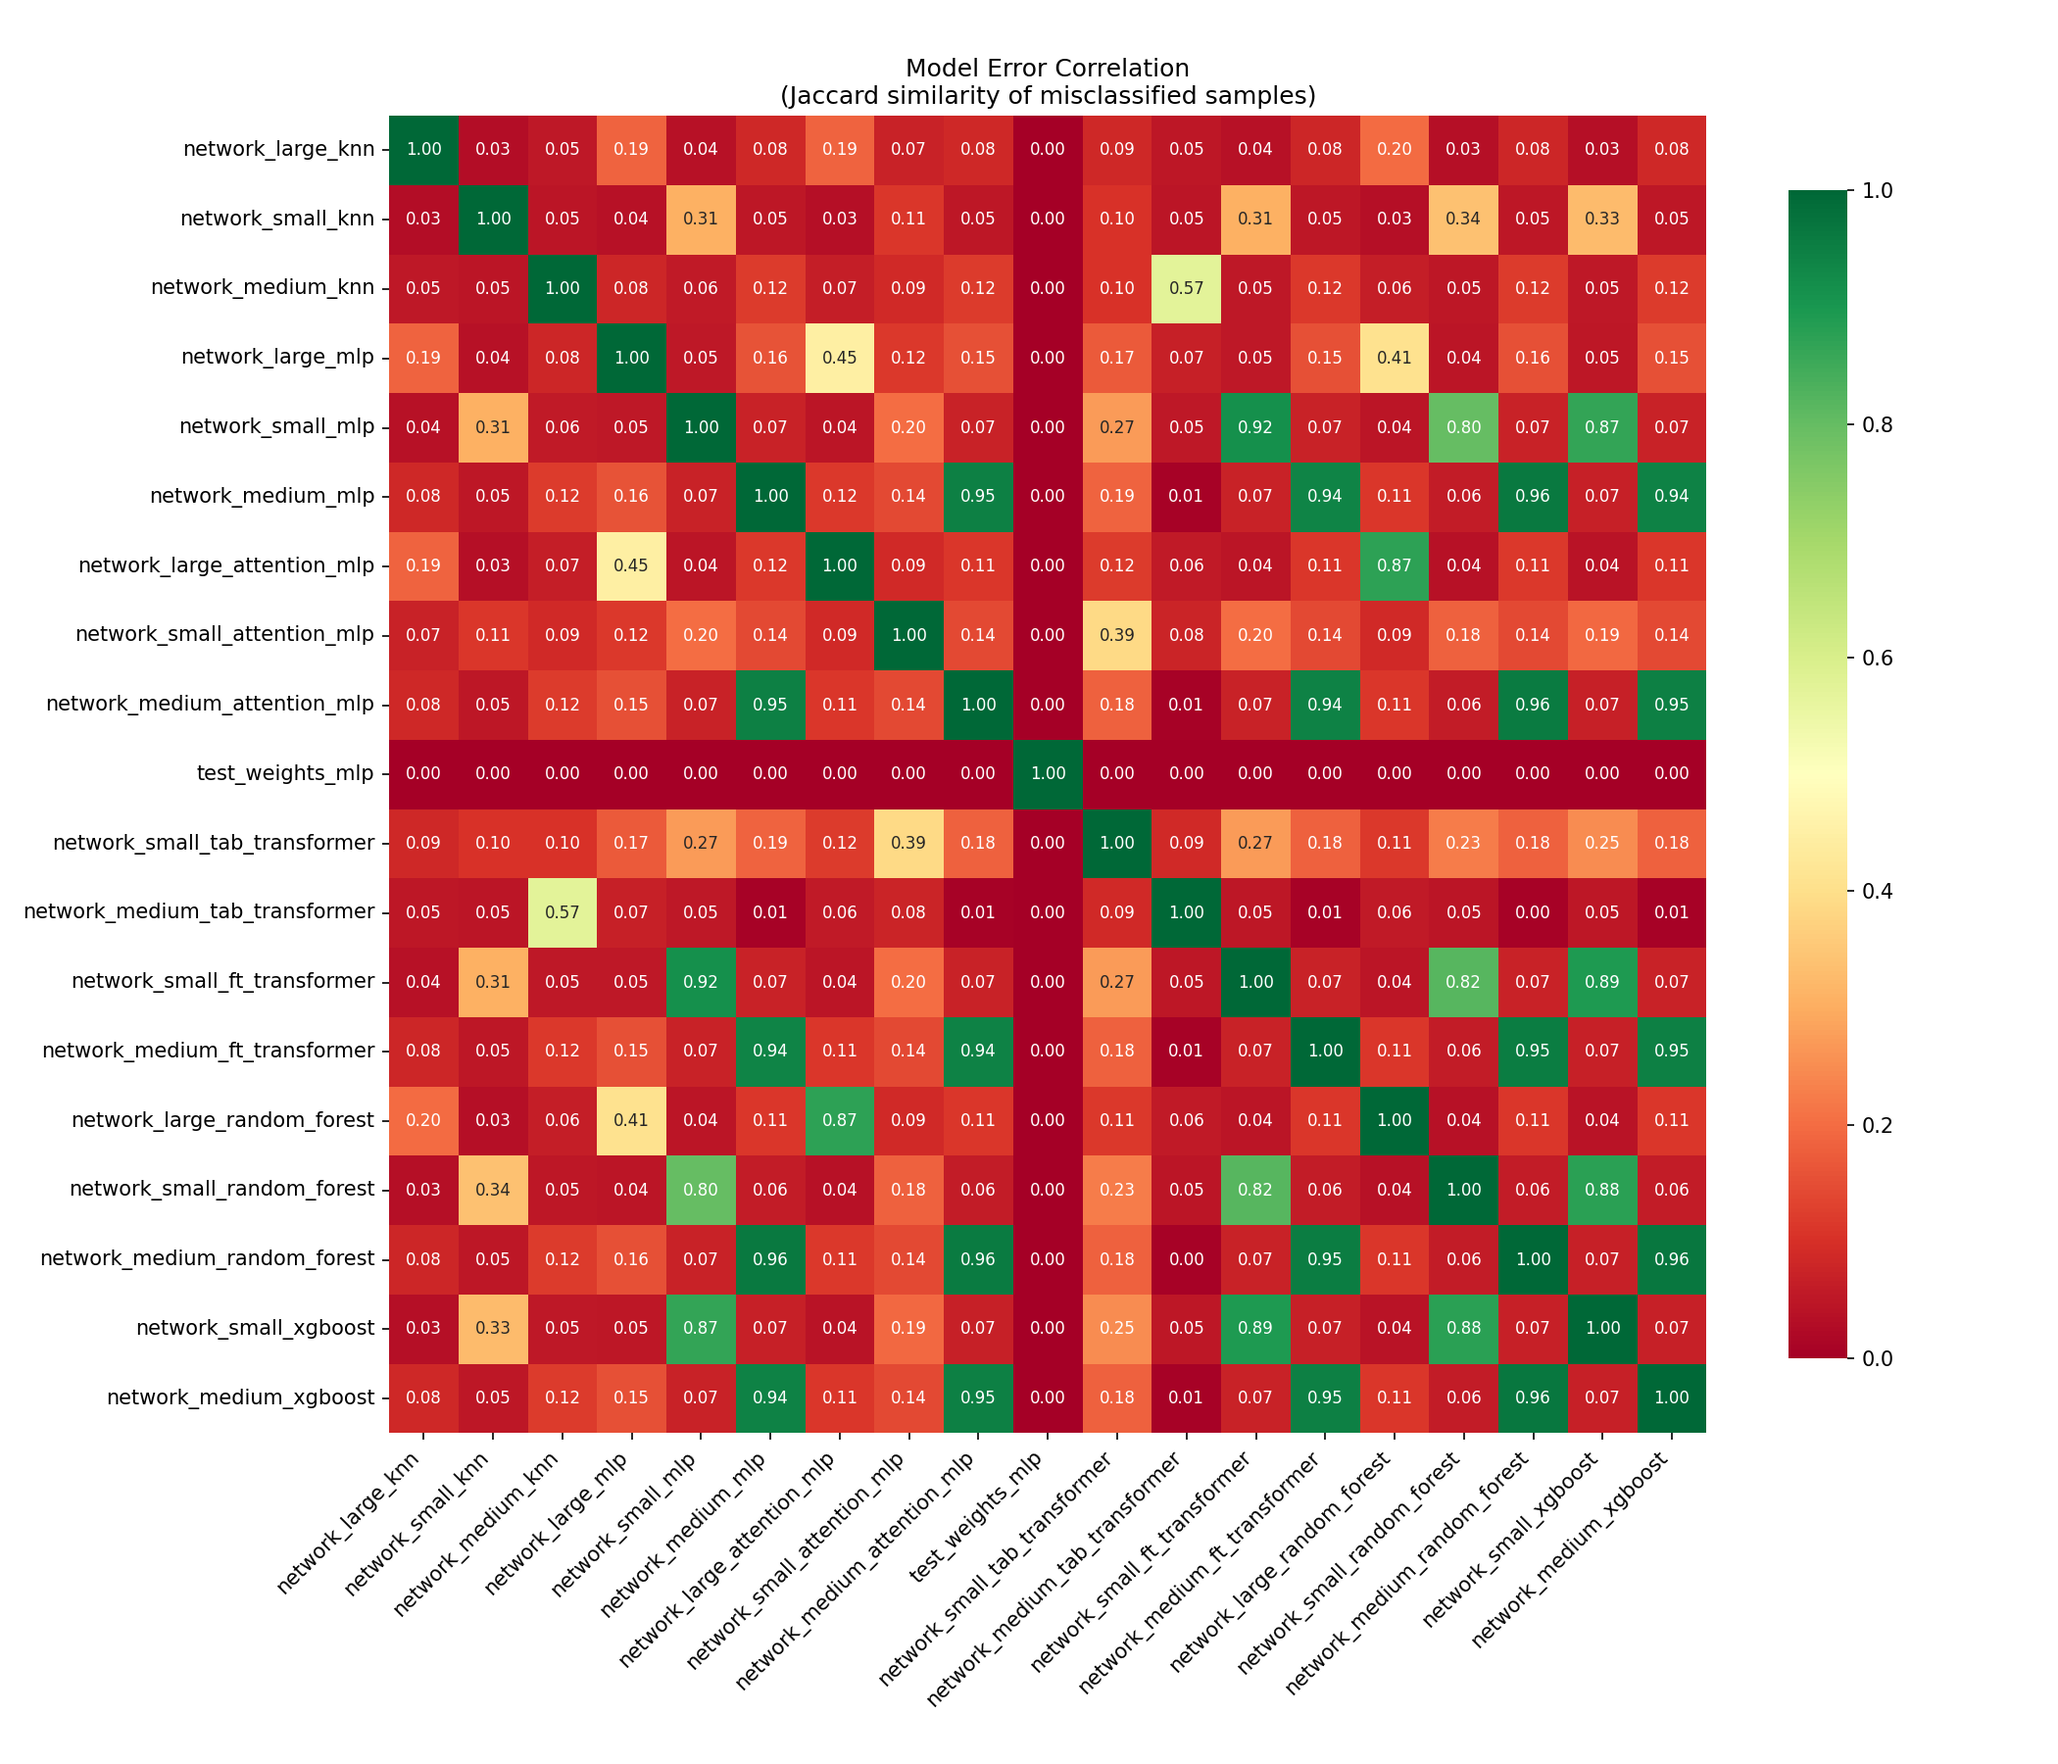
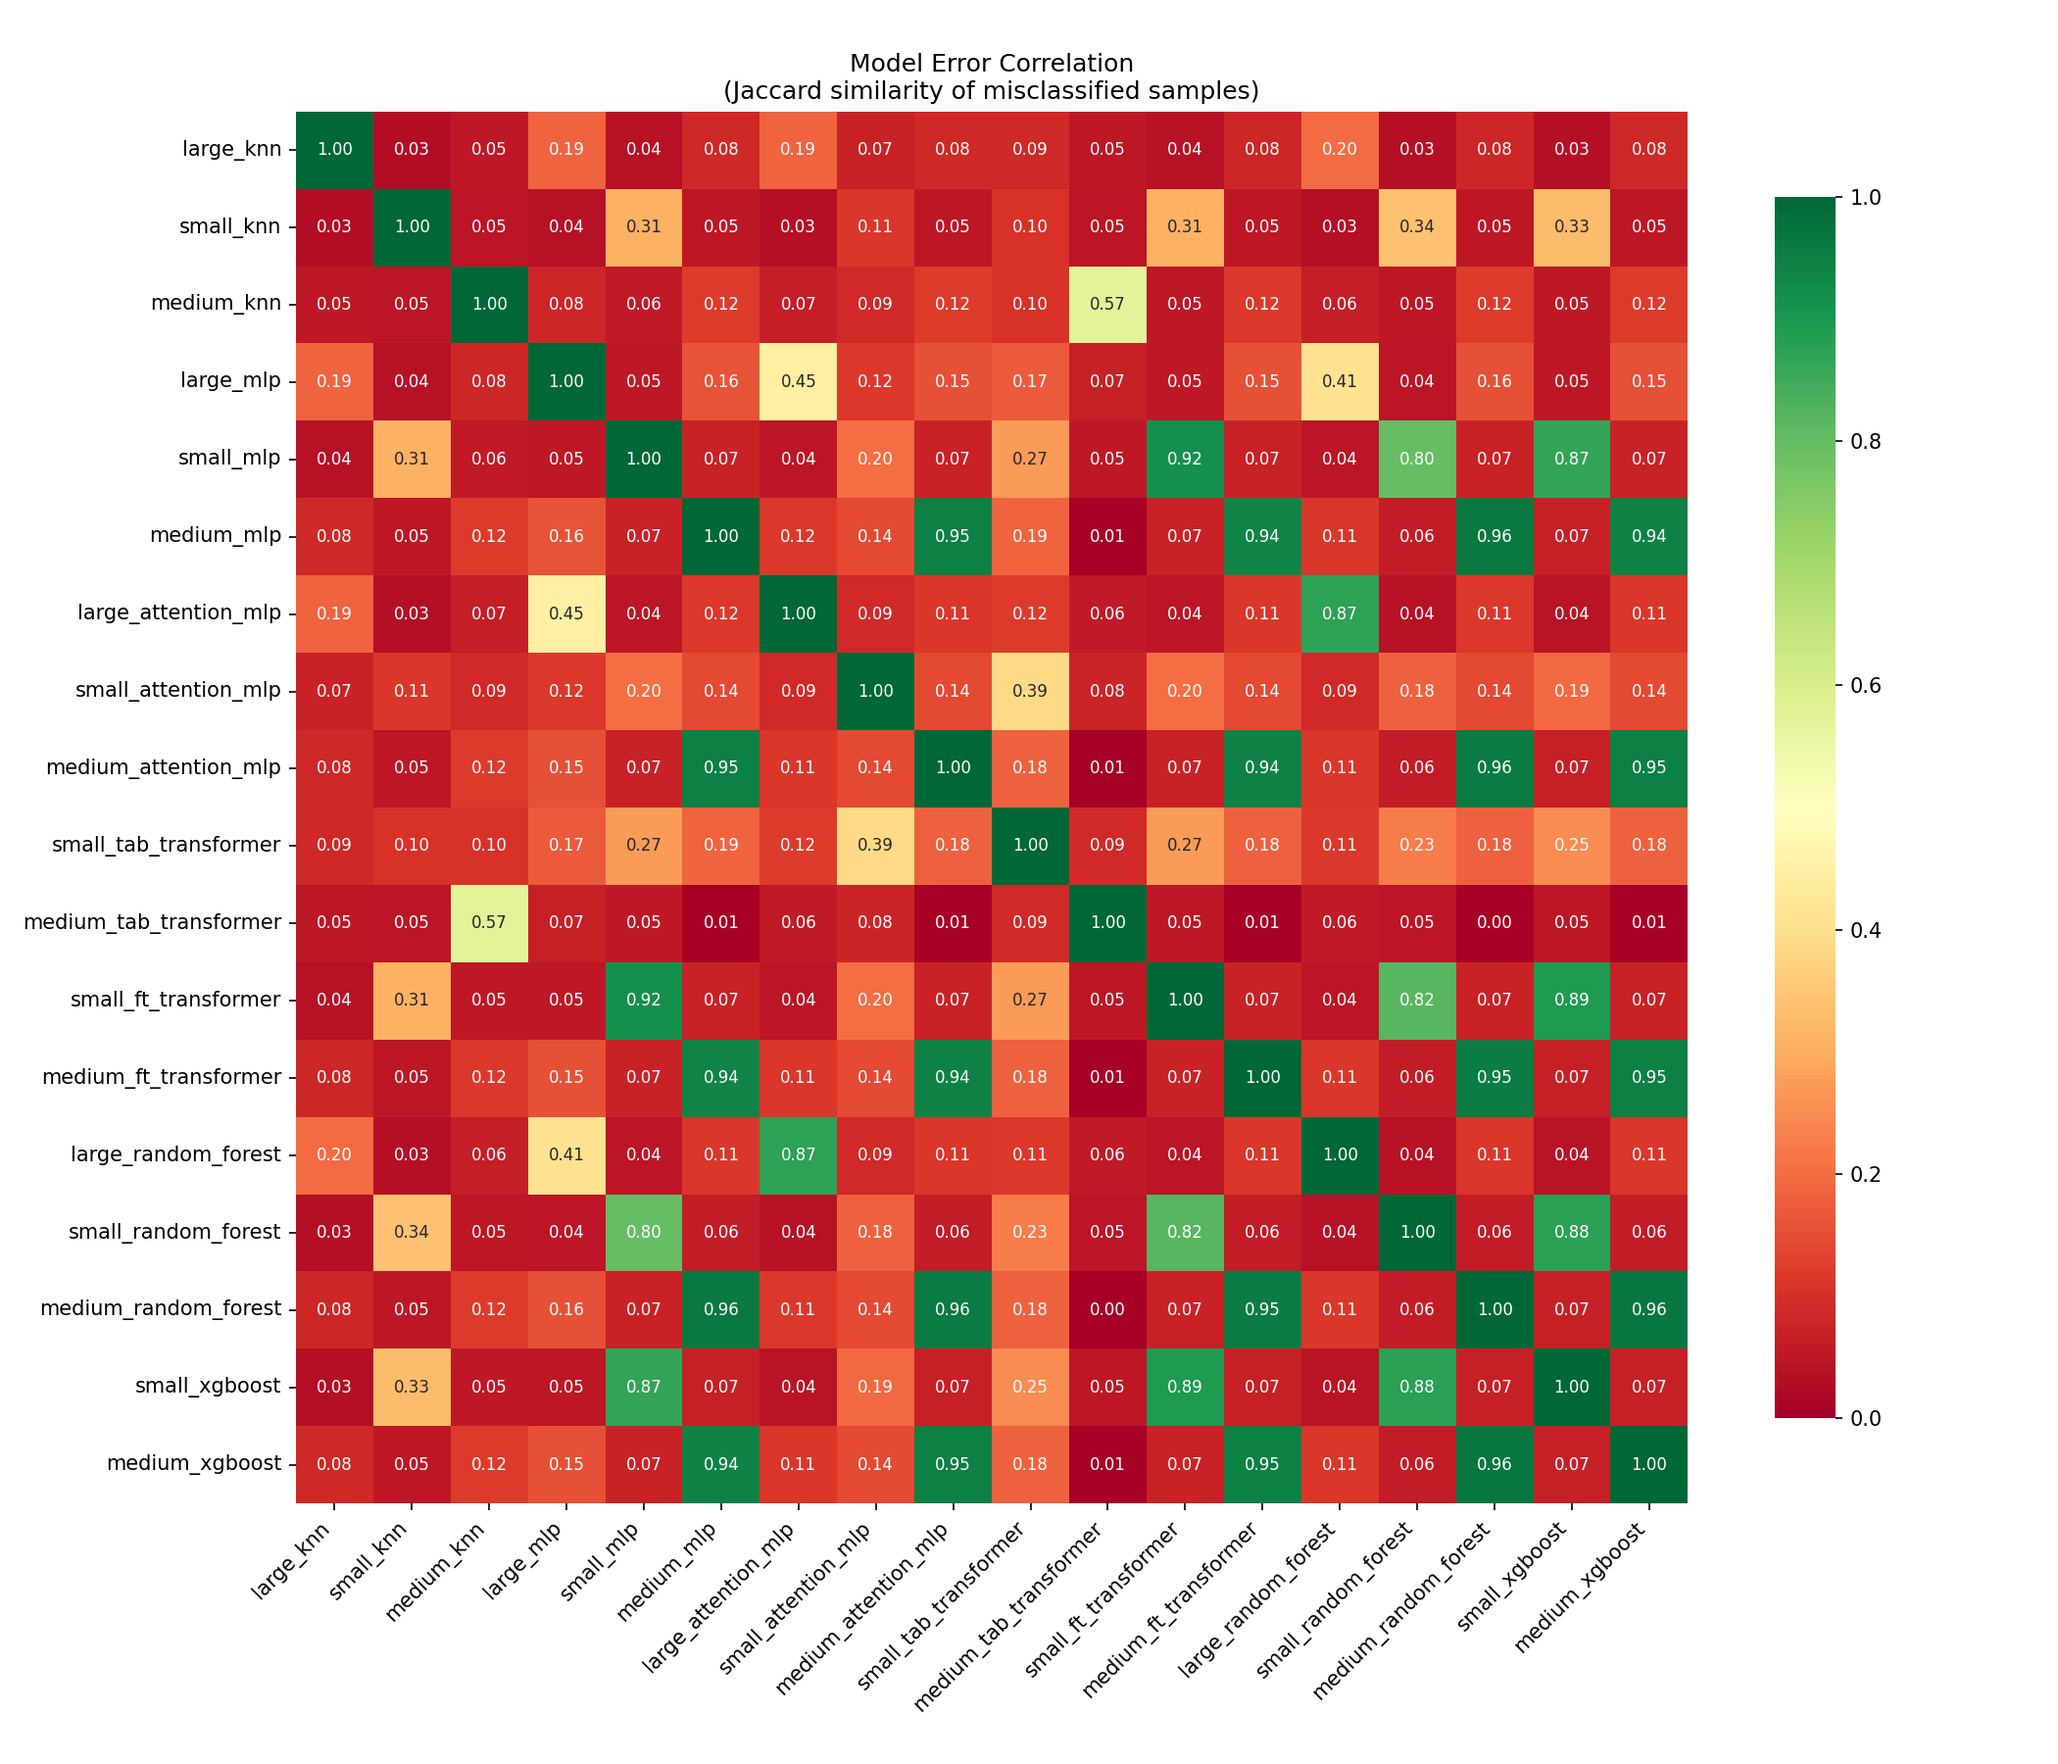
Nathan: Update Results analysis

diff --git a/results_analysis/network/report.md b/results_analysis/network/report.md
@@ -1,6 +1,6 @@
 # Analysis Report: Network Dataset
 
-Generated: 2026-01-21 07:28:27
+Generated: 2026-01-21 07:57:32
 
 ---
 
@@ -10,27 +10,26 @@ Ranked by F1 (macro) score on test set.
 
 | Rank | Experiment Name | Accuracy | F1 (macro) | Balanced Acc | MCC | Time (s) |
 |------|---|---|---|---|---|---|
-| 1 | `2026-01-20_23-18-21_test_weights_mlp` | 1.0000 | 1.0000 | 1.0000 | 0.0000 | 3.5 |
-| 2 | `2026-01-14_23-14-58_network_small_random_forest` | 0.8760 | 0.8688 | 0.9592 | 0.5627 | 43.0 |
-| 3 | `2026-01-15_00-55-56_network_small_knn` | 0.8990 | 0.8368 | 0.8442 | 0.3495 | 5.3 |
-| 4 | `2026-01-15_00-11-13_network_small_ft_transformer` | 0.8552 | 0.7743 | 0.9598 | 0.5401 | 2673.9 |
-| 5 | `2026-01-14_23-01-53_network_small_mlp` | 0.8510 | 0.7718 | 0.9585 | 0.5333 | 745.1 |
-| 6 | `2026-01-21_06-16-44_network_large_random_forest` | 0.7854 | 0.7490 | 0.9382 | 0.6018 | 744.8 |
-| 7 | `2026-01-15_01-05-22_network_small_tab_transformer` | 0.4656 | 0.7042 | 0.8548 | 0.2300 | 2786.7 |
-| 8 | `2026-01-20_20-35-56_network_medium_xgboost` | 0.7113 | 0.6961 | 0.9279 | 0.4693 | 680.7 |
-| 9 | `2026-01-20_21-05-35_network_medium_random_forest` | 0.7058 | 0.6843 | 0.8724 | 0.4665 | 756.0 |
-| 10 | `2026-01-21_06-30-17_network_medium_random_forest` | 0.7058 | 0.6843 | 0.8724 | 0.4665 | 641.2 |
-| 11 | `2026-01-21_03-38-32_network_large_knn` | 0.8708 | 0.6672 | 0.6907 | 0.5412 | 4.3 |
-| 12 | `2026-01-14_23-39-12_network_small_xgboost` | 0.8663 | 0.6134 | 0.7095 | 0.5515 | 26.5 |
-| 13 | `2026-01-14_23-49-15_network_small_attention_mlp` | 0.6476 | 0.5953 | 0.8121 | 0.1380 | 1308.3 |
-| 14 | `2026-01-20_20-48-35_network_medium_knn` | 0.8589 | 0.5909 | 0.5706 | 0.2198 | 18.4 |
-| 15 | `2026-01-21_04-08-05_network_medium_knn` | 0.8589 | 0.5909 | 0.5706 | 0.2198 | 17.3 |
-| 16 | `2026-01-20_23-22-03_network_medium_attention_mlp` | 0.7089 | 0.5452 | 0.7450 | 0.4650 | 161.1 |
-| 17 | `2026-01-20_23-44-20_network_large_attention_mlp` | 0.7700 | 0.4577 | 0.6085 | 0.5831 | 2889.7 |
-| 18 | `2026-01-20_23-21-19_network_medium_mlp` | 0.6955 | 0.4523 | 0.7653 | 0.4563 | 24.8 |
-| 19 | `2026-01-20_23-29-47_network_medium_ft_transformer` | 0.7108 | 0.4457 | 0.6015 | 0.4658 | 385.7 |
-| 20 | `2026-01-20_23-25-00_network_medium_tab_transformer` | 0.8820 | 0.3215 | 0.3307 | 0.1420 | 268.6 |
-| 21 | `2026-01-21_04-24-57_network_large_mlp` | 0.4899 | 0.2944 | 0.4081 | 0.3221 | 2994.4 |
+| 1 | `2026-01-14_23-14-58_network_small_random_forest` | 0.8760 | 0.8688 | 0.9592 | 0.5627 | 43.0 |
+| 2 | `2026-01-15_00-55-56_network_small_knn` | 0.8990 | 0.8368 | 0.8442 | 0.3495 | 5.3 |
+| 3 | `2026-01-15_00-11-13_network_small_ft_transformer` | 0.8552 | 0.7743 | 0.9598 | 0.5401 | 2673.9 |
+| 4 | `2026-01-14_23-01-53_network_small_mlp` | 0.8510 | 0.7718 | 0.9585 | 0.5333 | 745.1 |
+| 5 | `2026-01-21_06-16-44_network_large_random_forest` | 0.7854 | 0.7490 | 0.9382 | 0.6018 | 744.8 |
+| 6 | `2026-01-15_01-05-22_network_small_tab_transformer` | 0.4656 | 0.7042 | 0.8548 | 0.2300 | 2786.7 |
+| 7 | `2026-01-20_20-35-56_network_medium_xgboost` | 0.7113 | 0.6961 | 0.9279 | 0.4693 | 680.7 |
+| 8 | `2026-01-20_21-05-35_network_medium_random_forest` | 0.7058 | 0.6843 | 0.8724 | 0.4665 | 756.0 |
+| 9 | `2026-01-21_06-30-17_network_medium_random_forest` | 0.7058 | 0.6843 | 0.8724 | 0.4665 | 641.2 |
+| 10 | `2026-01-21_03-38-32_network_large_knn` | 0.8708 | 0.6672 | 0.6907 | 0.5412 | 4.3 |
+| 11 | `2026-01-14_23-39-12_network_small_xgboost` | 0.8663 | 0.6134 | 0.7095 | 0.5515 | 26.5 |
+| 12 | `2026-01-14_23-49-15_network_small_attention_mlp` | 0.6476 | 0.5953 | 0.8121 | 0.1380 | 1308.3 |
+| 13 | `2026-01-20_20-48-35_network_medium_knn` | 0.8589 | 0.5909 | 0.5706 | 0.2198 | 18.4 |
+| 14 | `2026-01-21_04-08-05_network_medium_knn` | 0.8589 | 0.5909 | 0.5706 | 0.2198 | 17.3 |
+| 15 | `2026-01-20_23-22-03_network_medium_attention_mlp` | 0.7089 | 0.5452 | 0.7450 | 0.4650 | 161.1 |
+| 16 | `2026-01-20_23-44-20_network_large_attention_mlp` | 0.7700 | 0.4577 | 0.6085 | 0.5831 | 2889.7 |
+| 17 | `2026-01-20_23-21-19_network_medium_mlp` | 0.6955 | 0.4523 | 0.7653 | 0.4563 | 24.8 |
+| 18 | `2026-01-20_23-29-47_network_medium_ft_transformer` | 0.7108 | 0.4457 | 0.6015 | 0.4658 | 385.7 |
+| 19 | `2026-01-20_23-25-00_network_medium_tab_transformer` | 0.8820 | 0.3215 | 0.3307 | 0.1420 | 268.6 |
+| 20 | `2026-01-21_04-24-57_network_large_mlp` | 0.4899 | 0.2944 | 0.4081 | 0.3221 | 2994.4 |
 
 ---
 
@@ -44,7 +43,7 @@ Classes with highest error rates across all models.
 | anomaly | 260 | 91 | 35.00% |
 | MITM | 441731 | 148721 | 33.67% |
 | physical fault | 348180 | 88715 | 25.48% |
-| normal | 6420477 | 1568317 | 24.43% |
+| normal | 6417477 | 1568317 | 24.44% |
 | DoS | 142298 | 1555 | 1.09% |
 
 ---
@@ -84,27 +83,26 @@ Which models make similar mistakes? (Jaccard similarity of error sets)
 
 **Correlation Matrix:**
 
-| Model | network_large_knn | network_small_knn | network_medium_knn | network_large_mlp | network_small_mlp | network_medium_mlp | network_large_attention_mlp | network_small_attention_mlp | network_medium_attention_mlp | test_weights_mlp | network_small_tab_transformer | network_medium_tab_transformer | network_small_ft_transformer | network_medium_ft_transformer | network_large_random_forest | network_small_random_forest | network_medium_random_forest | network_small_xgboost | network_medium_xgboost |
-|-------|---|---|---|---|---|---|---|---|---|---|---|---|---|---|---|---|---|---|---|
-| network_large_knn | 1.00 | 0.03 | 0.05 | 0.19 | 0.04 | 0.08 | 0.19 | 0.07 | 0.08 | 0.00 | 0.09 | 0.05 | 0.04 | 0.08 | 0.20 | 0.03 | 0.08 | 0.03 | 0.08 |
-| network_small_knn | 0.03 | 1.00 | 0.05 | 0.04 | 0.31 | 0.05 | 0.03 | 0.11 | 0.05 | 0.00 | 0.10 | 0.05 | 0.31 | 0.05 | 0.03 | 0.34 | 0.05 | 0.33 | 0.05 |
-| network_medium_knn | 0.05 | 0.05 | 1.00 | 0.08 | 0.06 | 0.12 | 0.07 | 0.09 | 0.12 | 0.00 | 0.10 | 0.57 | 0.05 | 0.12 | 0.06 | 0.05 | 0.12 | 0.05 | 0.12 |
-| network_large_mlp | 0.19 | 0.04 | 0.08 | 1.00 | 0.05 | 0.16 | 0.45 | 0.12 | 0.15 | 0.00 | 0.17 | 0.07 | 0.05 | 0.15 | 0.41 | 0.04 | 0.16 | 0.05 | 0.15 |
-| network_small_mlp | 0.04 | 0.31 | 0.06 | 0.05 | 1.00 | 0.07 | 0.04 | 0.20 | 0.07 | 0.00 | 0.27 | 0.05 | 0.92 | 0.07 | 0.04 | 0.80 | 0.07 | 0.87 | 0.07 |
-| network_medium_mlp | 0.08 | 0.05 | 0.12 | 0.16 | 0.07 | 1.00 | 0.12 | 0.14 | 0.95 | 0.00 | 0.19 | 0.01 | 0.07 | 0.94 | 0.11 | 0.06 | 0.96 | 0.07 | 0.94 |
-| network_large_attention_mlp | 0.19 | 0.03 | 0.07 | 0.45 | 0.04 | 0.12 | 1.00 | 0.09 | 0.11 | 0.00 | 0.12 | 0.06 | 0.04 | 0.11 | 0.87 | 0.04 | 0.11 | 0.04 | 0.11 |
-| network_small_attention_mlp | 0.07 | 0.11 | 0.09 | 0.12 | 0.20 | 0.14 | 0.09 | 1.00 | 0.14 | 0.00 | 0.39 | 0.08 | 0.20 | 0.14 | 0.09 | 0.18 | 0.14 | 0.19 | 0.14 |
-| network_medium_attention_mlp | 0.08 | 0.05 | 0.12 | 0.15 | 0.07 | 0.95 | 0.11 | 0.14 | 1.00 | 0.00 | 0.18 | 0.01 | 0.07 | 0.94 | 0.11 | 0.06 | 0.96 | 0.07 | 0.95 |
-| test_weights_mlp | 0.00 | 0.00 | 0.00 | 0.00 | 0.00 | 0.00 | 0.00 | 0.00 | 0.00 | 1.00 | 0.00 | 0.00 | 0.00 | 0.00 | 0.00 | 0.00 | 0.00 | 0.00 | 0.00 |
-| network_small_tab_transformer | 0.09 | 0.10 | 0.10 | 0.17 | 0.27 | 0.19 | 0.12 | 0.39 | 0.18 | 0.00 | 1.00 | 0.09 | 0.27 | 0.18 | 0.11 | 0.23 | 0.18 | 0.25 | 0.18 |
-| network_medium_tab_transformer | 0.05 | 0.05 | 0.57 | 0.07 | 0.05 | 0.01 | 0.06 | 0.08 | 0.01 | 0.00 | 0.09 | 1.00 | 0.05 | 0.01 | 0.06 | 0.05 | 0.00 | 0.05 | 0.01 |
-| network_small_ft_transformer | 0.04 | 0.31 | 0.05 | 0.05 | 0.92 | 0.07 | 0.04 | 0.20 | 0.07 | 0.00 | 0.27 | 0.05 | 1.00 | 0.07 | 0.04 | 0.82 | 0.07 | 0.89 | 0.07 |
-| network_medium_ft_transformer | 0.08 | 0.05 | 0.12 | 0.15 | 0.07 | 0.94 | 0.11 | 0.14 | 0.94 | 0.00 | 0.18 | 0.01 | 0.07 | 1.00 | 0.11 | 0.06 | 0.95 | 0.07 | 0.95 |
-| network_large_random_forest | 0.20 | 0.03 | 0.06 | 0.41 | 0.04 | 0.11 | 0.87 | 0.09 | 0.11 | 0.00 | 0.11 | 0.06 | 0.04 | 0.11 | 1.00 | 0.04 | 0.11 | 0.04 | 0.11 |
-| network_small_random_forest | 0.03 | 0.34 | 0.05 | 0.04 | 0.80 | 0.06 | 0.04 | 0.18 | 0.06 | 0.00 | 0.23 | 0.05 | 0.82 | 0.06 | 0.04 | 1.00 | 0.06 | 0.88 | 0.06 |
-| network_medium_random_forest | 0.08 | 0.05 | 0.12 | 0.16 | 0.07 | 0.96 | 0.11 | 0.14 | 0.96 | 0.00 | 0.18 | 0.00 | 0.07 | 0.95 | 0.11 | 0.06 | 1.00 | 0.07 | 0.96 |
-| network_small_xgboost | 0.03 | 0.33 | 0.05 | 0.05 | 0.87 | 0.07 | 0.04 | 0.19 | 0.07 | 0.00 | 0.25 | 0.05 | 0.89 | 0.07 | 0.04 | 0.88 | 0.07 | 1.00 | 0.07 |
-| network_medium_xgboost | 0.08 | 0.05 | 0.12 | 0.15 | 0.07 | 0.94 | 0.11 | 0.14 | 0.95 | 0.00 | 0.18 | 0.01 | 0.07 | 0.95 | 0.11 | 0.06 | 0.96 | 0.07 | 1.00 |
+| Model | large_knn | small_knn | medium_knn | large_mlp | small_mlp | medium_mlp | large_attention_mlp | small_attention_mlp | medium_attention_mlp | small_tab_transformer | medium_tab_transformer | small_ft_transformer | medium_ft_transformer | large_random_forest | small_random_forest | medium_random_forest | small_xgboost | medium_xgboost |
+|-------|---|---|---|---|---|---|---|---|---|---|---|---|---|---|---|---|---|---|
+| large_knn | 1.00 | 0.03 | 0.05 | 0.19 | 0.04 | 0.08 | 0.19 | 0.07 | 0.08 | 0.09 | 0.05 | 0.04 | 0.08 | 0.20 | 0.03 | 0.08 | 0.03 | 0.08 |
+| small_knn | 0.03 | 1.00 | 0.05 | 0.04 | 0.31 | 0.05 | 0.03 | 0.11 | 0.05 | 0.10 | 0.05 | 0.31 | 0.05 | 0.03 | 0.34 | 0.05 | 0.33 | 0.05 |
+| medium_knn | 0.05 | 0.05 | 1.00 | 0.08 | 0.06 | 0.12 | 0.07 | 0.09 | 0.12 | 0.10 | 0.57 | 0.05 | 0.12 | 0.06 | 0.05 | 0.12 | 0.05 | 0.12 |
+| large_mlp | 0.19 | 0.04 | 0.08 | 1.00 | 0.05 | 0.16 | 0.45 | 0.12 | 0.15 | 0.17 | 0.07 | 0.05 | 0.15 | 0.41 | 0.04 | 0.16 | 0.05 | 0.15 |
+| small_mlp | 0.04 | 0.31 | 0.06 | 0.05 | 1.00 | 0.07 | 0.04 | 0.20 | 0.07 | 0.27 | 0.05 | 0.92 | 0.07 | 0.04 | 0.80 | 0.07 | 0.87 | 0.07 |
+| medium_mlp | 0.08 | 0.05 | 0.12 | 0.16 | 0.07 | 1.00 | 0.12 | 0.14 | 0.95 | 0.19 | 0.01 | 0.07 | 0.94 | 0.11 | 0.06 | 0.96 | 0.07 | 0.94 |
+| large_attention_mlp | 0.19 | 0.03 | 0.07 | 0.45 | 0.04 | 0.12 | 1.00 | 0.09 | 0.11 | 0.12 | 0.06 | 0.04 | 0.11 | 0.87 | 0.04 | 0.11 | 0.04 | 0.11 |
+| small_attention_mlp | 0.07 | 0.11 | 0.09 | 0.12 | 0.20 | 0.14 | 0.09 | 1.00 | 0.14 | 0.39 | 0.08 | 0.20 | 0.14 | 0.09 | 0.18 | 0.14 | 0.19 | 0.14 |
+| medium_attention_mlp | 0.08 | 0.05 | 0.12 | 0.15 | 0.07 | 0.95 | 0.11 | 0.14 | 1.00 | 0.18 | 0.01 | 0.07 | 0.94 | 0.11 | 0.06 | 0.96 | 0.07 | 0.95 |
+| small_tab_transformer | 0.09 | 0.10 | 0.10 | 0.17 | 0.27 | 0.19 | 0.12 | 0.39 | 0.18 | 1.00 | 0.09 | 0.27 | 0.18 | 0.11 | 0.23 | 0.18 | 0.25 | 0.18 |
+| medium_tab_transformer | 0.05 | 0.05 | 0.57 | 0.07 | 0.05 | 0.01 | 0.06 | 0.08 | 0.01 | 0.09 | 1.00 | 0.05 | 0.01 | 0.06 | 0.05 | 0.00 | 0.05 | 0.01 |
+| small_ft_transformer | 0.04 | 0.31 | 0.05 | 0.05 | 0.92 | 0.07 | 0.04 | 0.20 | 0.07 | 0.27 | 0.05 | 1.00 | 0.07 | 0.04 | 0.82 | 0.07 | 0.89 | 0.07 |
+| medium_ft_transformer | 0.08 | 0.05 | 0.12 | 0.15 | 0.07 | 0.94 | 0.11 | 0.14 | 0.94 | 0.18 | 0.01 | 0.07 | 1.00 | 0.11 | 0.06 | 0.95 | 0.07 | 0.95 |
+| large_random_forest | 0.20 | 0.03 | 0.06 | 0.41 | 0.04 | 0.11 | 0.87 | 0.09 | 0.11 | 0.11 | 0.06 | 0.04 | 0.11 | 1.00 | 0.04 | 0.11 | 0.04 | 0.11 |
+| small_random_forest | 0.03 | 0.34 | 0.05 | 0.04 | 0.80 | 0.06 | 0.04 | 0.18 | 0.06 | 0.23 | 0.05 | 0.82 | 0.06 | 0.04 | 1.00 | 0.06 | 0.88 | 0.06 |
+| medium_random_forest | 0.08 | 0.05 | 0.12 | 0.16 | 0.07 | 0.96 | 0.11 | 0.14 | 0.96 | 0.18 | 0.00 | 0.07 | 0.95 | 0.11 | 0.06 | 1.00 | 0.07 | 0.96 |
+| small_xgboost | 0.03 | 0.33 | 0.05 | 0.05 | 0.87 | 0.07 | 0.04 | 0.19 | 0.07 | 0.25 | 0.05 | 0.89 | 0.07 | 0.04 | 0.88 | 0.07 | 1.00 | 0.07 |
+| medium_xgboost | 0.08 | 0.05 | 0.12 | 0.15 | 0.07 | 0.94 | 0.11 | 0.14 | 0.95 | 0.18 | 0.01 | 0.07 | 0.95 | 0.11 | 0.06 | 0.96 | 0.07 | 1.00 |
 
 ![Correlation Heatmap](correlation/correlation_heatmap.png)
 
@@ -151,10 +149,6 @@ Which models make similar mistakes? (Jaccard similarity of error sets)
 ### 2026-01-20_21-05-35_network_medium_random_forest
 
 ![2026-01-20_21-05-35_network_medium_random_forest](training_curves/2026-01-20_21-05-35_network_medium_random_forest.png)
-
-### 2026-01-20_23-18-21_test_weights_mlp
-
-![2026-01-20_23-18-21_test_weights_mlp](training_curves/2026-01-20_23-18-21_test_weights_mlp.png)
 
 ### 2026-01-20_23-21-19_network_medium_mlp
 

diff --git a/results_analysis/physical/report.md b/results_analysis/physical/report.md
@@ -1,6 +1,6 @@
 # Analysis Report: Physical Dataset
 
-Generated: 2026-01-21 07:22:42
+Generated: 2026-01-21 07:51:53
 
 ---
 
